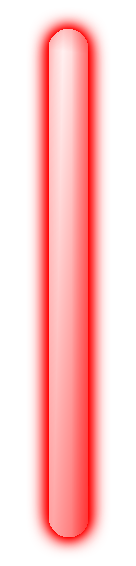
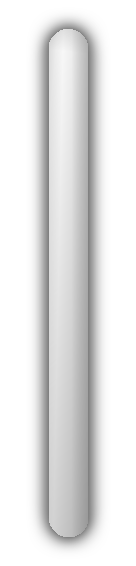
shield begin

diff --git a/MultiplayerCpp/Skeleton/Multiplayer Game/Behaviours.cpp b/MultiplayerCpp/Skeleton/Multiplayer Game/Behaviours.cpp
@@ -53,6 +53,12 @@ void Spaceship::start()
 	lifebar->sprite = App->modRender->addSprite(lifebar);
 	lifebar->sprite->pivot = vec2{ 0.0f, 0.5f };
 	lifebar->sprite->order = 5;
+
+	shield = Instantiate(); //TODO: in other object ??
+	shield->sprite = App->modRender->addSprite(shield);
+	shield->sprite->texture = App->modResources->power_up2;
+	shield->collider = App->modCollision->addCollider(ColliderType::Shield, shield);
+	shield->collider->isTrigger = true;
 }
 
 void Spaceship::onInput(const InputController& input)
@@ -85,8 +91,50 @@ void Spaceship::onInput(const InputController& input)
 		{
 			switch (pwt)
 			{
-			case Spaceship::Triple: {
-				float angles[3] = { -15.f, 0.f, 15.f };
+			case Spaceship::Double: {
+				float angles[2] = { -15.f, 15.f };
+				for (int i = 0; i < 2; ++i) {
+					GameObject* laser = NetworkInstantiate();
+
+					laser->position = gameObject->position;
+					laser->angle = gameObject->angle + angles[i];
+					laser->size = { 20, 60 };
+
+					laser->sprite = App->modRender->addSprite(laser);
+					laser->sprite->order = 3;
+					laser->sprite->texture = App->modResources->laser;
+					laser->sprite->color = { 1.f, 0.623f, 0.2f, 1.f };
+
+					Laser* laserBehaviour = App->modBehaviour->addLaser(laser);
+					laserBehaviour->isServer = isServer;
+
+					laser->tag = gameObject->tag;
+				}
+				break;
+			}
+			case Spaceship::BackAndFront: {
+				float angles[2] = { 0.f, 180.f };
+				for (int i = 0; i < 2; ++i) {
+					GameObject* laser = NetworkInstantiate();
+
+					laser->position = gameObject->position;
+					laser->angle = gameObject->angle + angles[i];
+					laser->size = { 20, 60 };
+
+					laser->sprite = App->modRender->addSprite(laser);
+					laser->sprite->order = 3;
+					laser->sprite->texture = App->modResources->laser;
+					laser->sprite->color = { 0.f, 1.f, 0.f, 1.f };
+
+					Laser* laserBehaviour = App->modBehaviour->addLaser(laser);
+					laserBehaviour->isServer = isServer;
+
+					laser->tag = gameObject->tag;
+				}
+				break;
+			}
+			case Spaceship::Back: {
+				float angles[3] = { (180.f + 15.f), 0.f, (180.f - 15.f) };
 				for (int i = 0; i < 3; ++i) {
 					GameObject* laser = NetworkInstantiate();
 
@@ -97,6 +145,7 @@ void Spaceship::onInput(const InputController& input)
 					laser->sprite = App->modRender->addSprite(laser);
 					laser->sprite->order = 3;
 					laser->sprite->texture = App->modResources->laser;
+					laser->sprite->color = { 0.f, 0.f, 1.f, 1.f };
 
 					Laser* laserBehaviour = App->modBehaviour->addLaser(laser);
 					laserBehaviour->isServer = isServer;
@@ -105,10 +154,6 @@ void Spaceship::onInput(const InputController& input)
 				}
 				break;
 			}
-			case Spaceship::BackAndFront:
-				break;
-			case Spaceship::Bounds:
-				break;
 			default:
 				GameObject* laser = NetworkInstantiate();
 
@@ -119,6 +164,7 @@ void Spaceship::onInput(const InputController& input)
 				laser->sprite = App->modRender->addSprite(laser);
 				laser->sprite->order = 3;
 				laser->sprite->texture = App->modResources->laser;
+				laser->sprite->color = { 1.f, 0.f, 0.f, 1.f };
 
 				Laser* laserBehaviour = App->modBehaviour->addLaser(laser);
 				laserBehaviour->isServer = isServer;
@@ -138,11 +184,15 @@ void Spaceship::update()
 	lifebar->position = gameObject->position + vec2{ -50.0f, -50.0f };
 	lifebar->size = vec2{ lifeRatio * 80.0f, 5.0f };
 	lifebar->sprite->color = lerp(colorDead, colorAlive, lifeRatio);
+
+	angle += orbit_speed * Time.deltaTime;
+	shield->position = gameObject->position + vec2{ radius * cos(angle), radius * sin(angle) };
 }
 
 void Spaceship::destroy()
 {
 	Destroy(lifebar);
+	Destroy(shield);
 }
 
 void Spaceship::onCollisionTriggered(Collider &c1, Collider &c2)
@@ -191,9 +241,8 @@ void Spaceship::onCollisionTriggered(Collider &c1, Collider &c2)
 		}
 	}
 	if (c2.type == ColliderType::PowerUp) {
-		LOG("You Get A Power Up");
 		NetworkDestroy(c2.gameObject);
-		pwt = Triple;
+		pwt = Double;
 	}
 }
 
@@ -209,7 +258,6 @@ void Spaceship::read(const InputMemoryStream & packet)
 
 void PowerUp::start()
 {
-	LOG("HOLA");
 }
 
 void PowerUp::update()

diff --git a/MultiplayerCpp/Skeleton/Multiplayer Game/Behaviours.h b/MultiplayerCpp/Skeleton/Multiplayer Game/Behaviours.h
@@ -71,15 +71,20 @@ struct Spaceship : public Behaviour
 
 	enum PowerUpType {
 		None,
-		Triple,
+		Double,
 		BackAndFront,
 		Shield,
-		Bounds
+		Back
 	};
 
-	PowerUpType pwt = None;
+	PowerUpType pwt = Shield;
+
+	float angle = 0.f;
+	float orbit_speed = 2.5f;
+	float radius = 90.f;
 
 	GameObject *lifebar = nullptr;
+	GameObject *shield = nullptr;
 
 	BehaviourType type() const override { return BehaviourType::Spaceship; }
 

diff --git a/MultiplayerCpp/Skeleton/Multiplayer Game/Networks.h b/MultiplayerCpp/Skeleton/Multiplayer Game/Networks.h
@@ -86,7 +86,8 @@ enum class ColliderType
 	None,
 	Player,
 	Laser,
-	PowerUp
+	PowerUp,
+	Shield
 };
 
 
